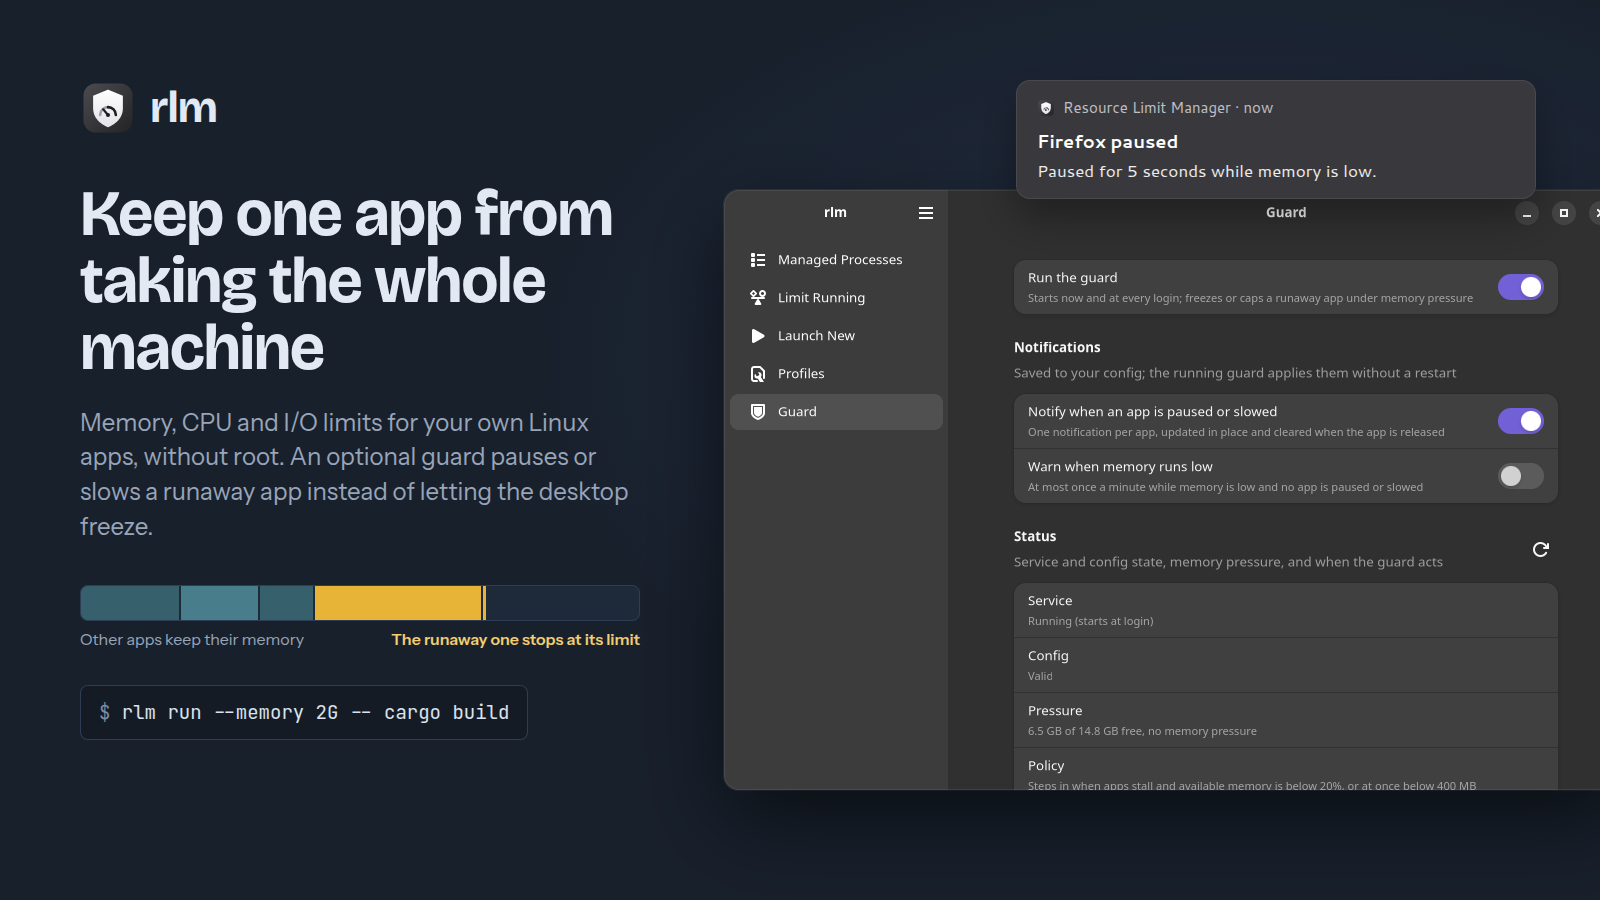
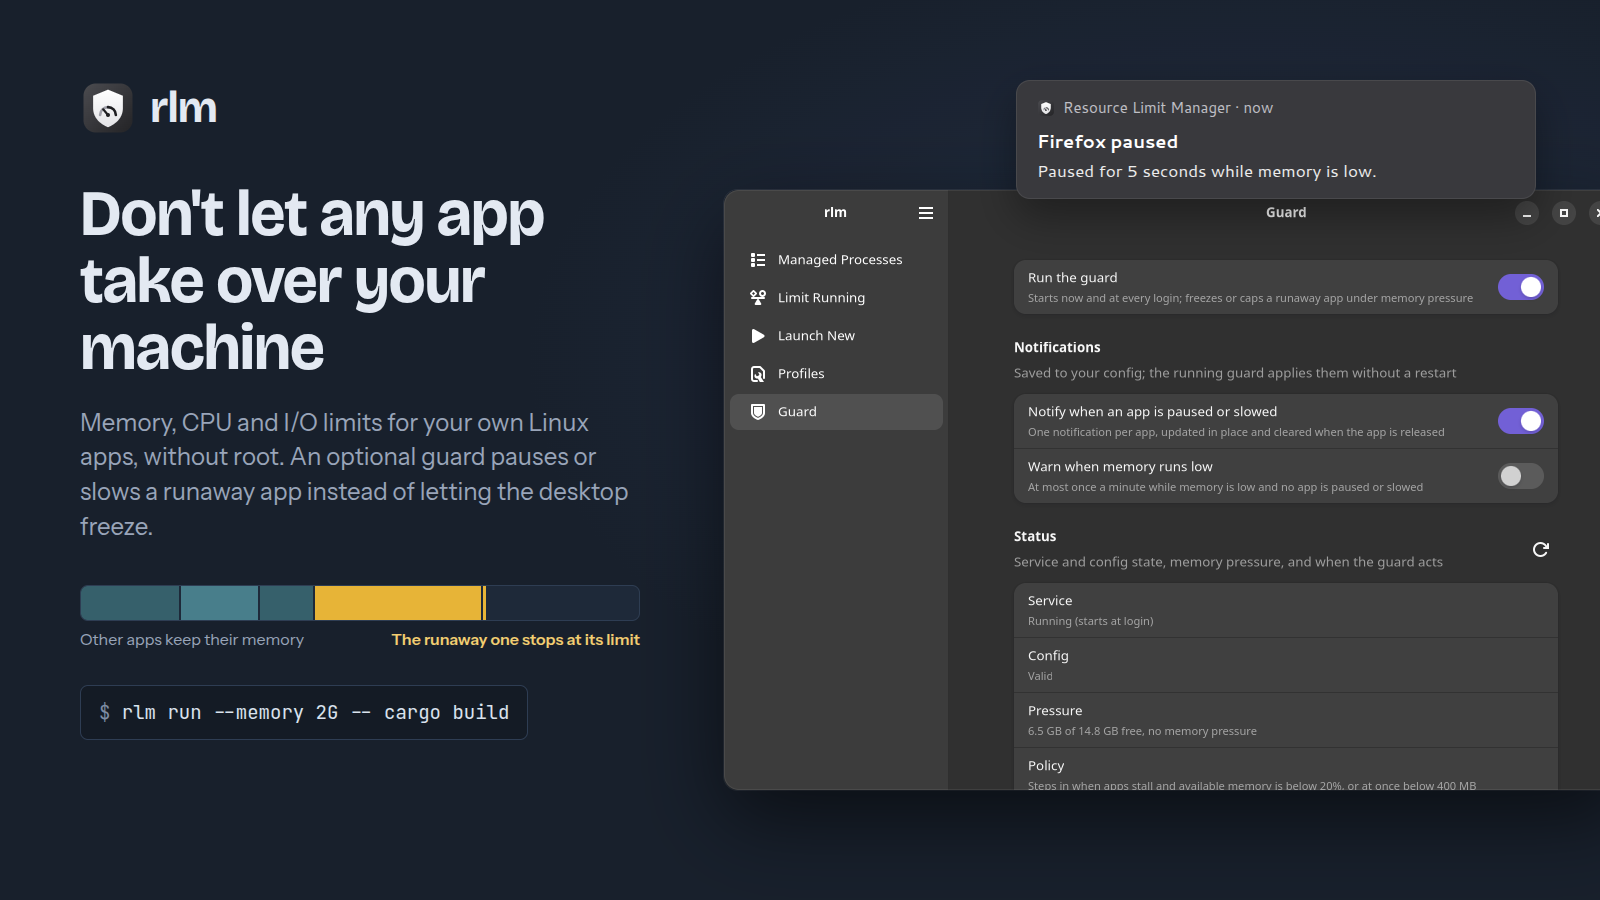
docs: headline 'Don't let any app take over your machine'; daemon-reload before restarting the guard after an upgrade

Changed region(s): [[0.0625, 0.1867, 0.4062, 0.3422]]

diff --git a/site/index.html b/site/index.html
@@ -262,7 +262,7 @@ footer a { margin-right: 1.25rem; }
 
   <main id="content">
     <section id="top">
-      <h1>Keep one app from taking the whole machine</h1>
+      <h1>Don't let any app take over your machine</h1>
       <p class="lede">rlm sets memory, CPU and I/O limits on your own Linux processes, without root, from the terminal or a desktop app. Its optional guard freezes or caps a runaway app under memory pressure, instead of letting the desktop lock up.</p>
       <figure class="meter" aria-label="Illustration: several apps share memory; one keeps growing until it reaches its limit and stops there.">
         <div class="bar" aria-hidden="true">
@@ -355,7 +355,7 @@ cargo install --path gtk-gui    <span class="c"># rlm-gtk, needs GTK 4 and libad
         <li>Run <code>rlm doctor</code>. It checks cgroup v2, the delegated controllers, memory pressure information, your config file and the guard.</li>
         <li>Optional: turn on the guard with <code>rlm guard enable</code>, or with the switch on the Guard page of the desktop app.</li>
       </ol>
-      <p class="note">After upgrading, restart the guard so the new version runs: <code>systemctl --user restart rlm-guard</code>.</p>
+      <p class="note">After upgrading, restart the guard so the new version runs: <code>systemctl --user daemon-reload</code>, then <code>systemctl --user restart rlm-guard</code>. The reload picks up the service file a package upgrade may have replaced.</p>
 
       <h3 id="distros">Supported systems</h3>
       <p>The CLI and the guard run on any Linux with cgroup v2, pressure stall information (PSI) and systemd. The desktop app also needs GTK 4 and libadwaita 1.4 or newer. The release packages install on:</p>

diff --git a/README.md b/README.md
@@ -142,9 +142,10 @@ cargo install --path gtk-gui    # rlm-gtk (needs GTK4 and libadwaita headers)
 3. Run `rlm doctor`. It checks cgroup v2, delegated controllers, PSI, your config file and the guard binary, unit and service.
 4. Optional: run `rlm guard enable`. When no packaged unit exists (crates.io and source installs), it writes `~/.config/systemd/user/rlm-guard.service` pointing at your `rlm-guard`, then enables and starts it with `systemctl --user`.
 
-After you upgrade the binary, restart the guard so the new version runs:
+After you upgrade the binary, restart the guard so the new version runs. The `daemon-reload` picks up the service file a package upgrade may have replaced; without it, systemctl warns that the unit file changed on disk.
 
 ```bash
+systemctl --user daemon-reload
 systemctl --user restart rlm-guard
 ```
 
